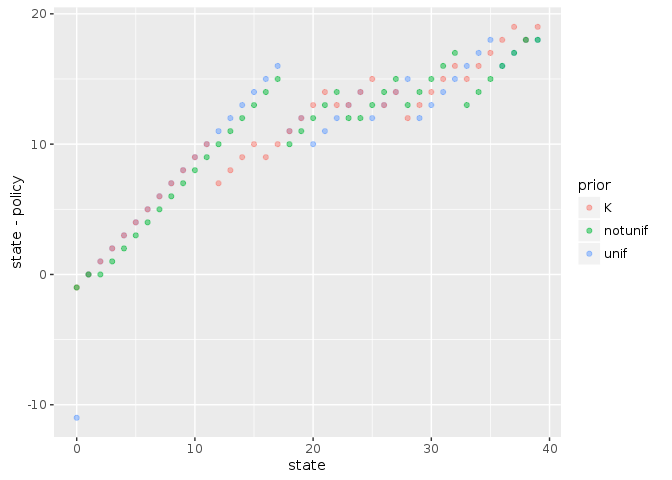
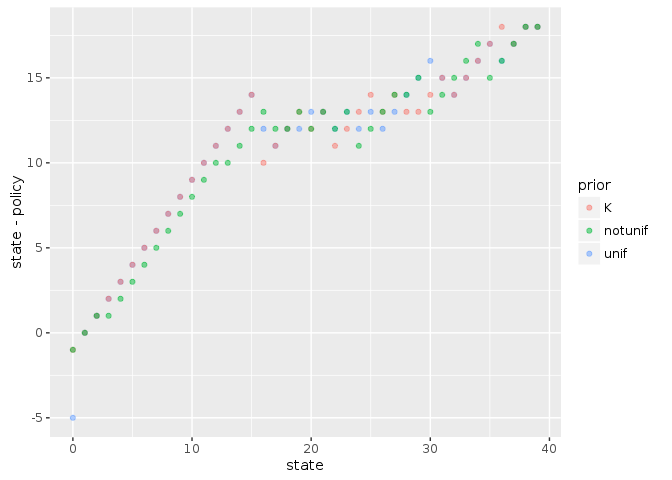
finer precision

diff --git a/inst/notebook/notes-on-alpha-vectors.md b/inst/notebook/notes-on-alpha-vectors.md
@@ -54,7 +54,7 @@ Typical model setup:
 
 ```r
 n_s <- 40
-precision <- 10
+precision <- 5
 
 states <- 0:(n_s-1)
 actions <- states
@@ -89,7 +89,7 @@ system.time(unif <- compute_alpha_vectors(m$transition, m$observation, m$reward,
 
 ```
 ##    user  system elapsed 
-##  42.340   0.168  42.660
+##  67.245   0.188  67.463
 ```
 
 
@@ -101,7 +101,7 @@ system.time(K <- compute_alpha_vectors(m$transition, m$observation, m$reward, di
 
 ```
 ##    user  system elapsed 
-##  41.576   0.172  41.765
+##  65.478   0.262  65.760
 ```
 
 
@@ -112,7 +112,7 @@ system.time(notunif <- compute_alpha_vectors(m$transition, m$observation, m$rewa
 
 ```
 ##    user  system elapsed 
-##  48.696   0.248  48.991
+##  78.908   0.239  79.188
 ```
 
 
@@ -170,7 +170,7 @@ system.time(soln <- pomdp(m$transition, m$observation, m$reward, discount, preci
 
 ```
 ##     user   system  elapsed 
-## 1408.440    6.908 1416.118
+## 2669.866    8.410 2679.391
 ```
 
 
